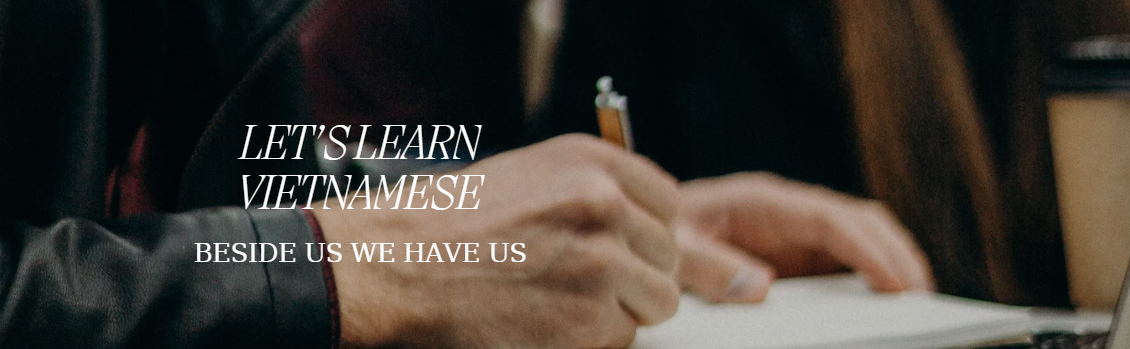
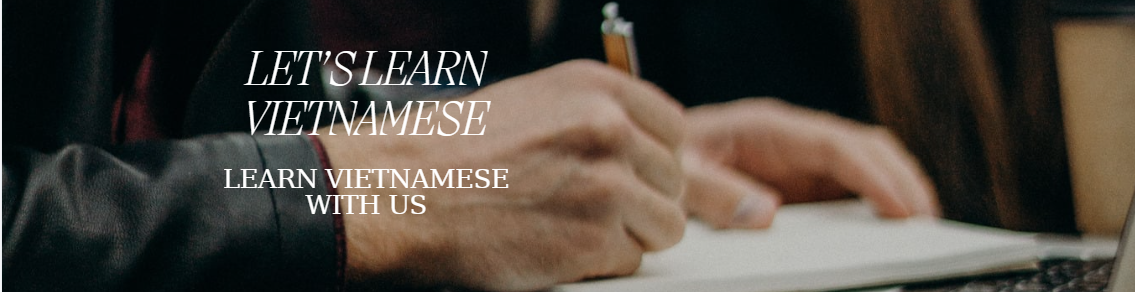
cap nhat

diff --git a/src/app/(user)/sonants/page.js b/src/app/(user)/sonants/page.js
@@ -5,7 +5,9 @@ import { supabase } from '@/lib/supabase'; // Đảm bảo bạn đã tạo file
 
 export default function SonantPage() {
     const [sonants, setSonants] = useState([]);
-    const [loading, setLoading] = useState(true);
+   const [loading, setLoading] = useState(true);
+    const audioRef = typeof window !== 'undefined' ? require('react').useRef(null) : null; // Thêm dòng này để quản lý audio hiện tại
+    
 
     // Tên Bucket trên Supabase Storage
     const BUCKET_NAME = 'sonants_assets';
@@ -29,6 +31,11 @@ export default function SonantPage() {
         };
 
         fetchSonants();
+        return () => {
+        if (audioRef && audioRef.current) {
+            audioRef.current.pause();
+        }
+        };
     }, []);
 
     // Hàm lấy URL ảnh/âm thanh từ Supabase Storage
@@ -40,12 +47,34 @@ export default function SonantPage() {
     };
 
     const playSound = (audioPath) => {
-        if (!audioPath) return;
-        const url = getMediaUrl(audioPath);
-        const audio = new Audio(url);
-        audio.currentTime = 0;
-        audio.play().catch(e => console.error("Lỗi phát âm thanh:", e));
-    };
+    if (!audioPath) return;
+
+    // 1. Nếu có âm thanh đang tồn tại, dừng nó lại
+    if (audioRef.current) {
+        audioRef.current.pause();
+        audioRef.current.currentTime = 0;
+    }
+
+    const url = getMediaUrl(audioPath);
+    const newAudio = new Audio(url);
+    audioRef.current = newAudio;
+
+    // 2. Xử lý Promise của play() để tránh lỗi AbortError của trình duyệt
+    const playPromise = newAudio.play();
+
+    if (playPromise !== undefined) {
+        playPromise
+            .then(() => {
+                // Âm thanh đã bắt đầu phát thành công, không làm gì cả
+            })
+            .catch(error => {
+                // Bắt các lỗi hủy phát nhạc ngầm khi người dùng bấm quá nhanh
+                if (error.name !== 'AbortError') {
+                    console.error("Lỗi phát âm thanh thật sự:", error);
+                }
+            });
+    }
+};
 
     // --- CHIA DỮ LIỆU THÀNH CÁC NHÓM ---
     const alphabetList = sonants.slice(0, 29); 
@@ -124,7 +153,7 @@ export default function SonantPage() {
                         
                         <div className="mt-4 text-lg text-gray-600">
                             <span className="font-semibold text-blue-600 mr-2">例子:</span> 
-                            ghi chép (記錄), ghi nhớ (記住), kim ghim (別針)
+                            ghi chép (記錄), ghi nhớ (記住)
                         </div>
                         </div>
 
@@ -220,7 +249,7 @@ export default function SonantPage() {
                     </div>
                     <div className="mt-4 text-lg text-gray-600">
                         <span className="font-semibold text-blue-600 mr-2">例子:</span> 
-                        đi (去), tim (心臟), im (安靜)
+                        đi (去), tim (心臟), im lặng(安靜)
                     </div>
                     </div>
 
@@ -274,7 +303,7 @@ export default function SonantPage() {
 
                         <div className="mt-4 text-lg text-gray-600">
                             <span className="font-semibold text-blue-600 mr-2">例子:</span>
-                            sinh viên (學生), sáng tạo (創造), sạch sẽ (乾淨)
+                            sinh viên (大學生), sáng tạo (創造), sạch sẽ (乾淨)
                         </div>
                         </div>
 

diff --git a/src/app/(user)/grammars/4/page.js b/src/app/(user)/grammars/4/page.js
@@ -45,7 +45,7 @@ export default function GrammarDetail() {
           onClick={() => router.back()}
           className="flex items-center text-gray-500 font-bold hover:text-black mb-8"
         >
-          ← QUAY LẠI
+          ← 回來
         </button>
 
         {/* --- NỘI DUNG NGỮ PHÁP (GIỮ NGUYÊN GIAO DIỆN BẠN ĐÃ THIẾT KẾ) --- */}
@@ -126,8 +126,8 @@ export default function GrammarDetail() {
       </div>
       <div className="grid grid-cols-1 gap-4">
         <div className="p-5 bg-white border-2 border-orange-100 rounded-2xl">
-          <p className="text-xl font-black text-gray-800">Các bạn <span className="text-orange-600">có</span> cà phê ngon <span className="text-orange-600">không</span>?</p>
-          <p className="text-xl text-gray-400 mt-1 italic">你們有沒有好喝的咖啡？</p>
+          <p className="text-xl font-black text-gray-800">Các bạn <span className="text-orange-600">có</span> cà phê <span className="text-orange-600">không</span>?</p>
+          <p className="text-xl text-gray-400 mt-1 italic">你們有沒有咖啡？</p>
         </div>
         <div className="p-5 bg-white border-2 border-orange-100 rounded-2xl">
           <p className="text-xl font-black text-gray-800">Cậu <span className="text-orange-600">có</span> mấy tấm ảnh?</p>

diff --git a/src/app/(user)/grammars/1/page.js b/src/app/(user)/grammars/1/page.js
@@ -46,7 +46,7 @@ export default function GrammarDetail() {
           onClick={() => router.back()}
           className="flex items-center text-gray-500 font-bold hover:text-black mb-8"
         >
-          ← QUAY LẠI
+          ← 回來
         </button>
 
         {/* --- PHẦN NỘI DUNG NGỮ PHÁP (GIỮ NGUYÊN GIAO DIỆN CỦA BẠN) --- */}

diff --git a/src/app/(user)/grammars/2/page.js b/src/app/(user)/grammars/2/page.js
@@ -45,7 +45,7 @@ export default function GrammarDetail() {
           onClick={() => router.back()}
           className="flex items-center text-gray-500 font-bold hover:text-black mb-8"
         >
-          ← QUAY LẠI
+          ← 回來
         </button>
 
         {/* --- NỘI DUNG NGỮ PHÁP (GIỮ NGUYÊN STYLE BẠN ĐÃ VIẾT) --- */}

diff --git a/src/app/(user)/grammars/3/page.js b/src/app/(user)/grammars/3/page.js
@@ -16,7 +16,7 @@ export default function GrammarDetail() {
           onClick={() => router.back()}
           className="flex items-center text-gray-500 font-bold hover:text-black mb-8"
         >
-          ← QUAY LẠI
+          ← 回來
         </button>
 
         {/* --- NỘI DUNG NGỮ PHÁP --- */}

diff --git a/src/app/(user)/grammars/5/page.js b/src/app/(user)/grammars/5/page.js
@@ -45,7 +45,7 @@ export default function GrammarDetail() {
           onClick={() => router.back()}
           className="flex items-center text-gray-500 font-bold hover:text-black mb-8"
         >
-          ← QUAY LẠI
+          ← 回來
         </button>
 
         {/* --- NỘI DUNG NGỮ PHÁP --- */}

diff --git a/src/app/(user)/grammars/6/page.js b/src/app/(user)/grammars/6/page.js
@@ -45,7 +45,7 @@ export default function GrammarDetail() {
           onClick={() => router.back()}
           className="flex items-center text-gray-500 font-bold hover:text-black mb-8"
         >
-          ← QUAY LẠI
+          ← 回來
         </button>
 
         {/* --- NỘI DUNG NGỮ PHÁP --- */}

diff --git a/src/app/layout.js b/src/app/layout.js
@@ -2,7 +2,7 @@
 import "./global.css"; 
 
 export const metadata = {
-  title: "TUEVN - 學越南語",
+  title: "XUEVN - 學越南語",
   description: "越南語初學者學習網站",
 };
 